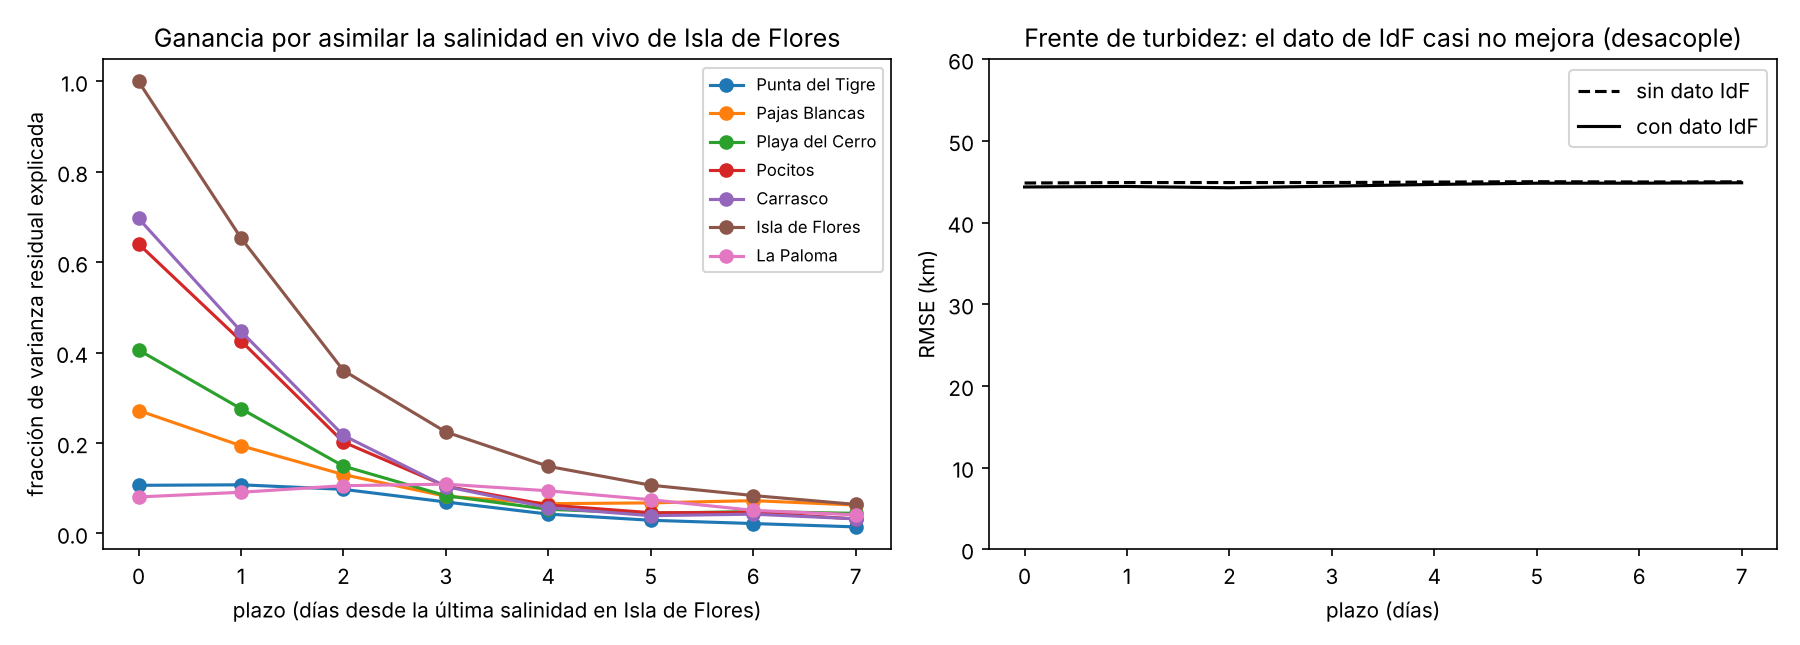
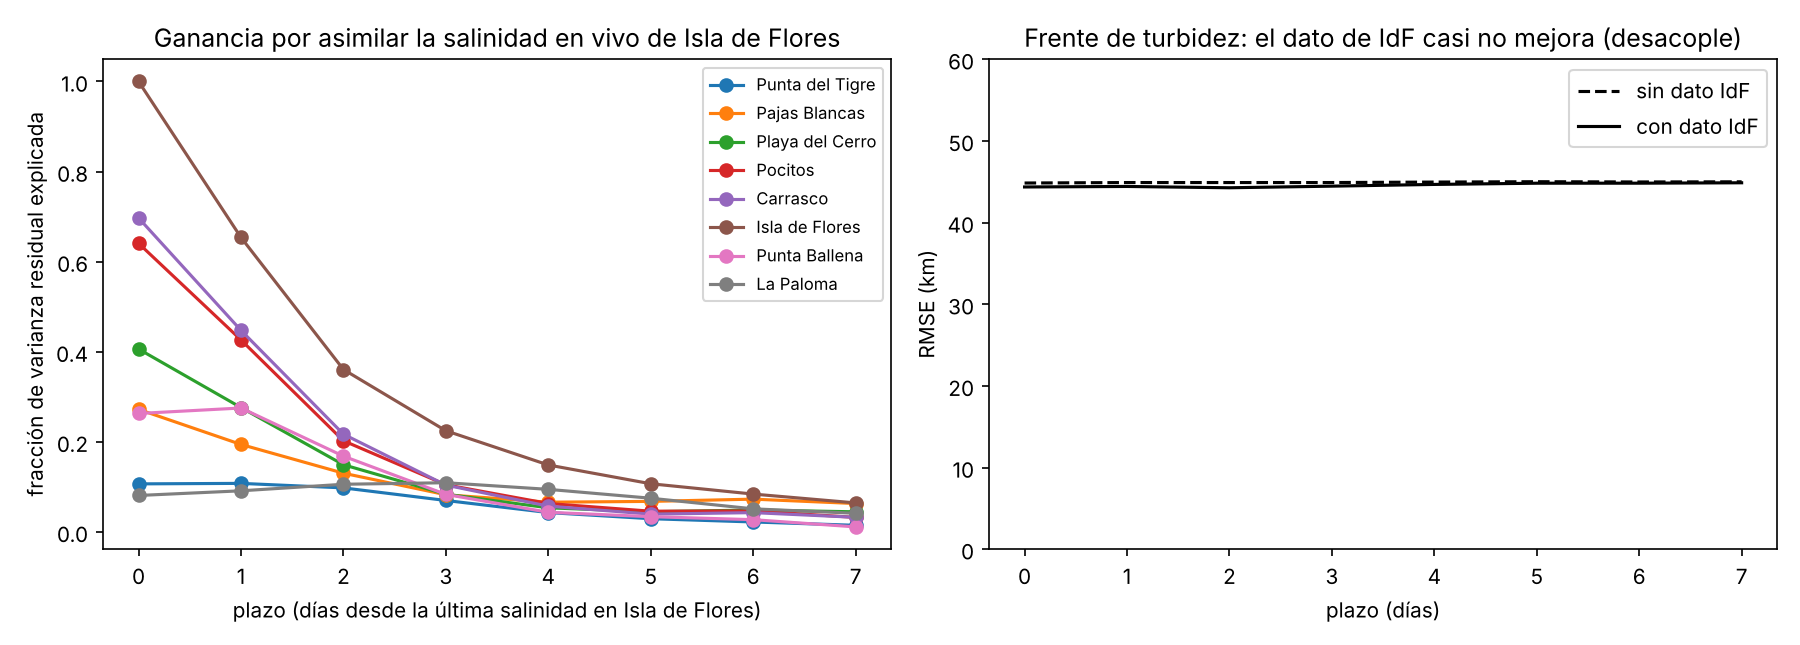
Figura: Punta Ballena en el panel d, verificación en tiempo real de Isla de Flores (archivo de pronósticos en la rama archivo-pronostico), título del viento
Claude-Session: https://claude.ai/code/session_01F9Rc1kviH1gqzyhxaKuLjM

diff --git a/forecast_ft_sal.py b/forecast_ft_sal.py
@@ -35,7 +35,7 @@ TZ = 'America/Montevideo'
 DIAS = ['lun', 'mar', 'mié', 'jue', 'vie', 'sáb', 'dom']
 NAMES = {'Punta_del_Tigre': 'Punta del Tigre', 'Pajas_Blancas': 'Pajas Blancas',
          'Playa_del_Cerro': 'Playa del Cerro', 'Pocitos': 'Pocitos', 'Carrasco': 'Carrasco',
-         'Isla_de_Flores': 'Isla de Flores', 'La_Paloma': 'La Paloma'}
+         'Isla_de_Flores': 'Isla de Flores', 'Punta_Ballena': 'Punta Ballena*', 'La_Paloma': 'La Paloma'}
 
 
 def http_get(url, timeout=90, intentos=4):
@@ -134,28 +134,37 @@ def run_forecast(coefs, wind, Q, idf_daily, t0):
 
 
 # ------------------------------------------------------------------ figura
-def make_figure(fc, wind, idf_raw, idf_daily, coefs, q_src, r0, t0, out_png, mode_txt, obs=None):
+def make_figure(fc, wind, idf_raw, idf_daily, coefs, q_src, r0, t0, out_png, mode_txt, obs=None, verif=None):
     plt.rcParams.update({'font.size': 10, 'axes.spines.top': False, 'axes.spines.right': False})
     fig = plt.figure(figsize=(14, 8.6))
     gs = fig.add_gridspec(3, 2, height_ratios=[1, 1, 0.75], width_ratios=[1.25, 1], hspace=0.55, wspace=0.42)
-    tmin = t0 - pd.Timedelta(days=5); tmax = fc.index.max() + pd.Timedelta(hours=24)
+    tmin = t0 - pd.Timedelta(days=7); tmax = fc.index.max() + pd.Timedelta(hours=24)
 
     # (a) Isla de Flores
     ax = fig.add_subplot(gs[0, 0])
+    tmin_a = tmin
     if idf_raw is not None and len(idf_raw):
         ax.plot(idf_raw.index, idf_raw.values, color='0.55', lw=0.8, label='observada (10 min)')
-    idd = idf_daily[(idf_daily.index >= tmin) & (idf_daily.index <= t0)]
+    idd = idf_daily[(idf_daily.index >= tmin_a) & (idf_daily.index <= t0)]
     ax.plot(idd.index + pd.Timedelta(hours=12), idd.values, 'ko', ms=4, label='media diaria observada')
     k = 'S_Isla_de_Flores'; x = fc.index + pd.Timedelta(hours=12)
+    # pronósticos anteriores (archivo): la última corrida de cada uno de los 3 días previos
+    if verif is not None and verif.get('previos') is not None:
+        for j, (emit, g) in enumerate(verif['previos']):
+            ax.plot(g.index + pd.Timedelta(hours=12), g.values, '-', color=['#e6550d', '#fd8d3c', '#fdbe85'][j], lw=1.3,
+                    label=f'pronóstico emitido el {emit:%d/%m}')
     ax.fill_between(x, (fc[k] - fc[k + '_err']).clip(lower=0), fc[k] + fc[k + '_err'], color='#2b7bba', alpha=0.18, lw=0)
-    ax.plot(x, fc[k], '-o', color='#2b7bba', ms=4, label='pronóstico (±1 RMSE)')
+    ax.plot(x, fc[k], '-o', color='#2b7bba', ms=4, label='pronóstico actual (±1 RMSE)')
     ax.plot(x, fc[k + '_base'], '--', color='#2b7bba', lw=1, alpha=0.7, label='sólo viento + caudal')
     if obs is not None and k in obs:
         o = obs[k].reindex(fc.index); ax.plot(x, o, 'x', color='crimson', ms=7, mew=2, label='verificación')
     ax.axvline(t0 + pd.Timedelta(hours=12), color='k', lw=0.6, ls=':')
-    ax.set_xlim(tmin, tmax); ax.set_ylim(0, 35); ax.set_ylabel('Salinidad')
+    ax.set_xlim(tmin_a, tmax); ax.set_ylim(0, 35); ax.set_ylabel('Salinidad')
     ax.set_title('a) Salinidad en Isla de Flores', loc='left', fontweight='bold')
-    ax.legend(fontsize=7.5, ncol=2, loc='upper left', frameon=False)
+    ax.legend(fontsize=6.6, ncol=2, loc='upper left', frameon=False)
+    if verif is not None:
+        ax.text(1.0, 1.02, verif['texto'], transform=ax.transAxes, ha='right', va='bottom', fontsize=7.3,
+                family='DejaVu Sans Mono', bbox=dict(boxstyle='round,pad=0.3', fc='#f7f7f7', ec='0.8'))
 
     # (b) frente de turbidez
     ax = fig.add_subplot(gs[1, 0])
@@ -190,7 +199,7 @@ def make_figure(fc, wind, idf_raw, idf_daily, coefs, q_src, r0, t0, out_png, mod
     ax.quiver(xw, spd + 1.2, w.u / spd, w.v / spd, angles='uv', scale=28, width=0.004, color='k')
     ax.axvline(t0 + pd.Timedelta(hours=12), color='k', lw=0.6, ls=':')
     ax.set_xlim(tmin, tmax); ax.set_ylim(0, max(10, spd.max() + 3)); ax.set_ylabel('m/s')
-    ax.set_title('c) Viento medio en el estuario (flecha: hacia donde sopla)', loc='left', fontweight='bold')
+    ax.set_title('c) Viento medio en el estuario', loc='left', fontweight='bold')
     for a in fig.axes:
         if hasattr(a, 'xaxis') and a.get_subplotspec() is not None and a.get_subplotspec().colspan.start == 0:
             a.xaxis.set_major_locator(matplotlib.dates.DayLocator(interval=2)); a.xaxis.set_major_formatter(matplotlib.dates.DateFormatter('%d/%m'))
@@ -222,6 +231,7 @@ def make_figure(fc, wind, idf_raw, idf_daily, coefs, q_src, r0, t0, out_png, mod
            f'entrenada con 2000–2025 (MODIS, ERA5, salinidad costera);\n'
            f'el residuo de Isla de Flores se propaga a las demás estaciones.\n'
            f'P(ext.)/P(retr.): prob. de superar P95/P5 (AUC val. cruzada {coefs["prob"]["P_ext"]["cv_auc"]:.2f}/{coefs["prob"]["P_ret"]["cv_auc"]:.2f}).\n'
+           f'* Punta Ballena: modelo con sólo 9 meses de datos (2025), preliminar.\n'
            f'Experimental, sin validación operacional.  Manta et al.')
     ax.text(0, 1, txt, va='top', fontsize=8.6, family='DejaVu Sans', linespacing=1.45)
     fig.suptitle('Pronóstico experimental: frente de turbidez y salinidad costera del Río de la Plata',
@@ -244,6 +254,73 @@ Pronóstico experimental.</small></p></body></html>'''
     (out_dir / 'index.html').write_text(html, encoding='utf-8')
 
 
+# ------------------------------------------------------------------ archivo y verificación
+VARS_ARCH = ['TF_dist_km', 'S_Isla_de_Flores_base'] + ['S_' + s for s in NAMES]
+
+
+def actualizar_archivo(dir_arch, fc, idf_raw, t0, emitido):
+    """Guarda el pronóstico emitido y la salinidad diaria observada en IdF (se acumulan corrida a corrida)."""
+    dir_arch = Path(dir_arch); dir_arch.mkdir(parents=True, exist_ok=True)
+    fp, fo = dir_arch / 'pronosticos.csv', dir_arch / 'obs_isla_de_flores_diaria.csv'
+    nuevo = fc[[c for c in VARS_ARCH if c in fc]].copy()
+    nuevo.insert(0, 'h', fc['h']); nuevo.insert(0, 't0', t0.date()); nuevo.insert(0, 'emitido', emitido.strftime('%Y-%m-%d %H:%M'))
+    nuevo.index.name = 'fecha'; nuevo = nuevo.reset_index()
+    nuevo['fecha'] = nuevo['fecha'].dt.date
+    if fp.exists():
+        prev = pd.read_csv(fp)
+        nuevo = pd.concat([prev[prev.emitido != nuevo.emitido.iloc[0]], nuevo], ignore_index=True)
+    nuevo.round(3).to_csv(fp, index=False)
+    # observado: media diaria y número de datos (144 = día completo cada 10 min)
+    g = idf_raw.resample('D').agg(['mean', 'count']); g.columns = ['sal_media', 'n']; g.index.name = 'fecha'
+    g = g[g.n > 0]
+    if fo.exists():
+        prev = pd.read_csv(fo, parse_dates=['fecha']).set_index('fecha')
+        prev = prev[~prev.index.isin(g.index)]
+        g = pd.concat([prev, g]).sort_index()
+    g.round(3).to_csv(fo)
+    return nuevo, g
+
+
+def verificar(pron, obs, t0, hmax=7, min_n=120):
+    """Compara pronósticos archivados de Isla de Flores con la media diaria observada (días con >= min_n datos)."""
+    pron = pron.copy(); pron['fecha'] = pd.to_datetime(pron['fecha']); pron['t0'] = pd.to_datetime(pron['t0'])
+    pron['emitido'] = pd.to_datetime(pron['emitido'])
+    obs = obs.copy(); obs.index = pd.to_datetime(obs.index)
+    ok = obs[obs.n >= min_n].sal_media
+    # sólo la última corrida de cada día de emisión
+    ult = pron.sort_values('emitido').groupby('t0').emitido.max()
+    p = pron[pron.emitido.isin(ult.values)].copy()
+    p['obs'] = p.fecha.map(ok); p['persist'] = p.t0.map(obs.sal_media)
+    v = p.dropna(subset=['obs'])
+    v = v[(v.h >= 1) & (v.fecha < t0)]
+    filas = []
+    for h in range(1, hmax + 1):
+        e = v[v.h == h]
+        if len(e):
+            filas.append({'h': h, 'n': len(e), 'rmse': float(np.sqrt(((e.S_Isla_de_Flores - e.obs) ** 2).mean())),
+                          'sesgo': float((e.S_Isla_de_Flores - e.obs).mean()),
+                          'rmse_persist': float(np.sqrt(((e.persist - e.obs) ** 2).mean())),
+                          'rmse_base': float(np.sqrt(((e.S_Isla_de_Flores_base - e.obs) ** 2).mean())) if 'S_Isla_de_Flores_base' in e else np.nan})
+    tabla = pd.DataFrame(filas)
+    desde = pron.t0.min()
+    if tabla.empty:
+        texto = f'Verificación en tiempo real (archivo desde {desde:%d/%m/%Y}):\nse irá completando a medida que haya\npronósticos pasados con dato observado.'
+    else:
+        lin = [f'Verificación IdF desde {desde:%d/%m/%Y} (RMSE)', ' plazo   n  modelo persist.  sesgo']
+        for _, r in tabla.iterrows():
+            if r.h in (1, 2, 3, 5, 7):
+                lin.append(f' {int(r.h)} d  {int(r.n):3d}  {r.rmse:5.1f}  {r.rmse_persist:6.1f}  {r.sesgo:+5.1f}')
+        texto = '\n'.join(lin)
+    previos = []
+    for d in range(1, 4):
+        dia = (t0 - pd.Timedelta(days=d)).normalize()
+        cand = pron[pron.t0 == dia]
+        if len(cand):
+            em = cand.emitido.max(); g = cand[cand.emitido == em].set_index('fecha').S_Isla_de_Flores
+            previos.append((em, g))
+    return {'tabla': tabla, 'texto': texto, 'previos': previos}
+
+
 # ------------------------------------------------------------------ main
 def main():
     ap = argparse.ArgumentParser()
@@ -252,6 +329,7 @@ def main():
     ap.add_argument('--sal-csv', help='CSV local de exoflores (en lugar de descargar)')
     ap.add_argument('--wind-json', help='JSON local de Open-Meteo (en lugar de descargar)')
     ap.add_argument('--out', default=str(HERE / 'salida'))
+    ap.add_argument('--archivo', default=str(HERE / 'archivo'), help='carpeta del archivo de pronósticos y observaciones')
     a = ap.parse_args()
     coefs = json.loads((HERE / 'model_coefs.json').read_text())
     cfg = json.loads((HERE / 'config.json').read_text()) if (HERE / 'config.json').exists() else {}
@@ -292,7 +370,19 @@ def main():
         mode_txt = f'OPERACIONAL · corrida {now:%d/%m/%Y %H:%M} · viento GFS (Open-Meteo)'
 
     fc, base, r0 = run_forecast(coefs, wind, Q, idf_daily, t0)
-    make_figure(fc, wind, idf_raw, idf_daily, coefs, q_src, r0, t0, out / 'pronostico_ft_sal.png', mode_txt, obs)
+    verif = None
+    if not a.replay:
+        try:
+            pron, obs_d = actualizar_archivo(a.archivo, fc, idf_raw, t0, now)
+            verif = verificar(pron, obs_d.set_index('fecha') if 'fecha' in obs_d else obs_d, t0)
+            verif['tabla'].round(2).to_csv(out / 'verificacion_isla_de_flores.csv', index=False)
+            # la serie diaria observada del archivo permite ver más de 4 días hacia atrás
+            od = pd.read_csv(Path(a.archivo) / 'obs_isla_de_flores_diaria.csv', parse_dates=['fecha']).set_index('fecha').sal_media
+            idf_daily = od.combine_first(idf_daily)
+            print(verif['texto'])
+        except Exception as e:
+            print('[archivo] no se pudo actualizar/verificar:', e)
+    make_figure(fc, wind, idf_raw, idf_daily, coefs, q_src, r0, t0, out / 'pronostico_ft_sal.png', mode_txt, obs, verif)
     cols = ['h', 'Q_RdlP', 'TF_dist_km', 'TF_lon', 'P_ext', 'P_ret'] + ['S_' + s for s in NAMES]
     fc[cols].round(2).to_csv(out / 'pronostico_ft_sal.csv')
     write_html(out, fc, now)

diff --git a/train_model.py b/train_model.py
@@ -21,7 +21,7 @@ STATIONS = {  # nombre: (lon, lat) aproximadas
  'Punta_del_Tigre': (-56.55, -34.77), 'Pajas_Blancas': (-56.37, -34.88),
  'Playa_del_Cerro': (-56.26, -34.89), 'Pocitos': (-56.15, -34.915),
  'Carrasco': (-56.05, -34.89), 'Isla_de_Flores': (-55.93, -34.945),
- 'La_Paloma': (-54.16, -34.66)}
+ 'Punta_Ballena': (-55.05, -34.91), 'La_Paloma': (-54.16, -34.66)}
 HMAX = 7
 
 d = pd.read_csv('data_tfinal_11abr.csv'); d['date'] = pd.to_datetime(d['date'], format='%d-%b-%Y')
@@ -34,8 +34,11 @@ for s in STATIONS: T['S_' + s] = d['Salinidad_' + s]
 
 def ridge_cv_pred(y):
     yrs = y.index.year.values; pred = pd.Series(np.nan, index=y.index)
-    for blk in np.array_split(np.unique(yrs), 6):
-        te = np.isin(yrs, blk)
+    if len(np.unique(yrs)) >= 6:   # validación por bloques de años
+        bloques = [np.isin(yrs, b) for b in np.array_split(np.unique(yrs), 6)]
+    else:                          # registro corto (Punta Ballena, 2025): 6 bloques temporales contiguos
+        bloques = [np.isin(np.arange(len(y)), b) for b in np.array_split(np.arange(len(y)), 6)]
+    for te in bloques:
         sc = StandardScaler().fit(X.loc[y.index[~te]])
         m = RidgeCV(alphas=np.logspace(-2, 3, 20)).fit(sc.transform(X.loc[y.index[~te]]), y[~te])
         pred[te] = m.predict(sc.transform(X.loc[y.index[te]]))
@@ -77,7 +80,7 @@ json.dump(out, open('model_coefs.json', 'w'), indent=1)
 
 # ---- figura de validación ----
 names = {'TF_dist_km': 'Frente de turbidez (km)', **{'S_' + s: s.replace('_', ' ') for s in STATIONS}}
-fig, ax = plt.subplots(2, 4, figsize=(15, 7.2))
+fig, ax = plt.subplots(3, 3, figsize=(13, 10.5))
 for a, k in zip(ax.flat, T):
     y = T[k].dropna(); p = preds[k]; ok = p.notna()
     a.hexbin(y[ok], p[ok], gridsize=35, mincnt=1, cmap='Blues', bins='log')
